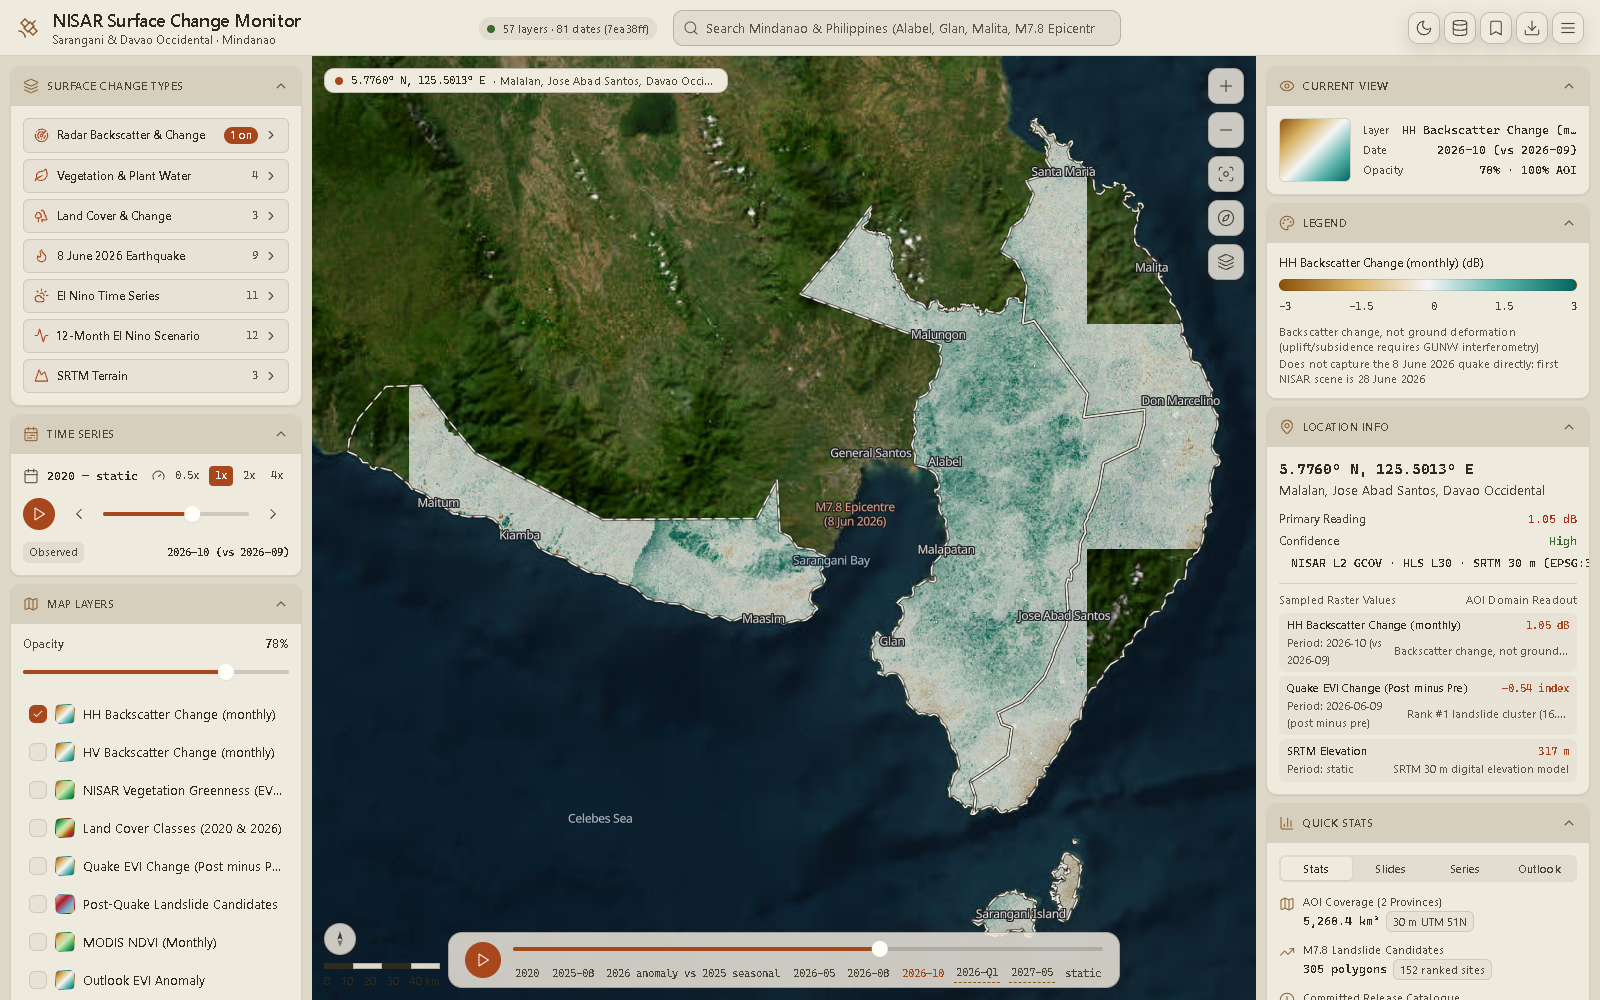
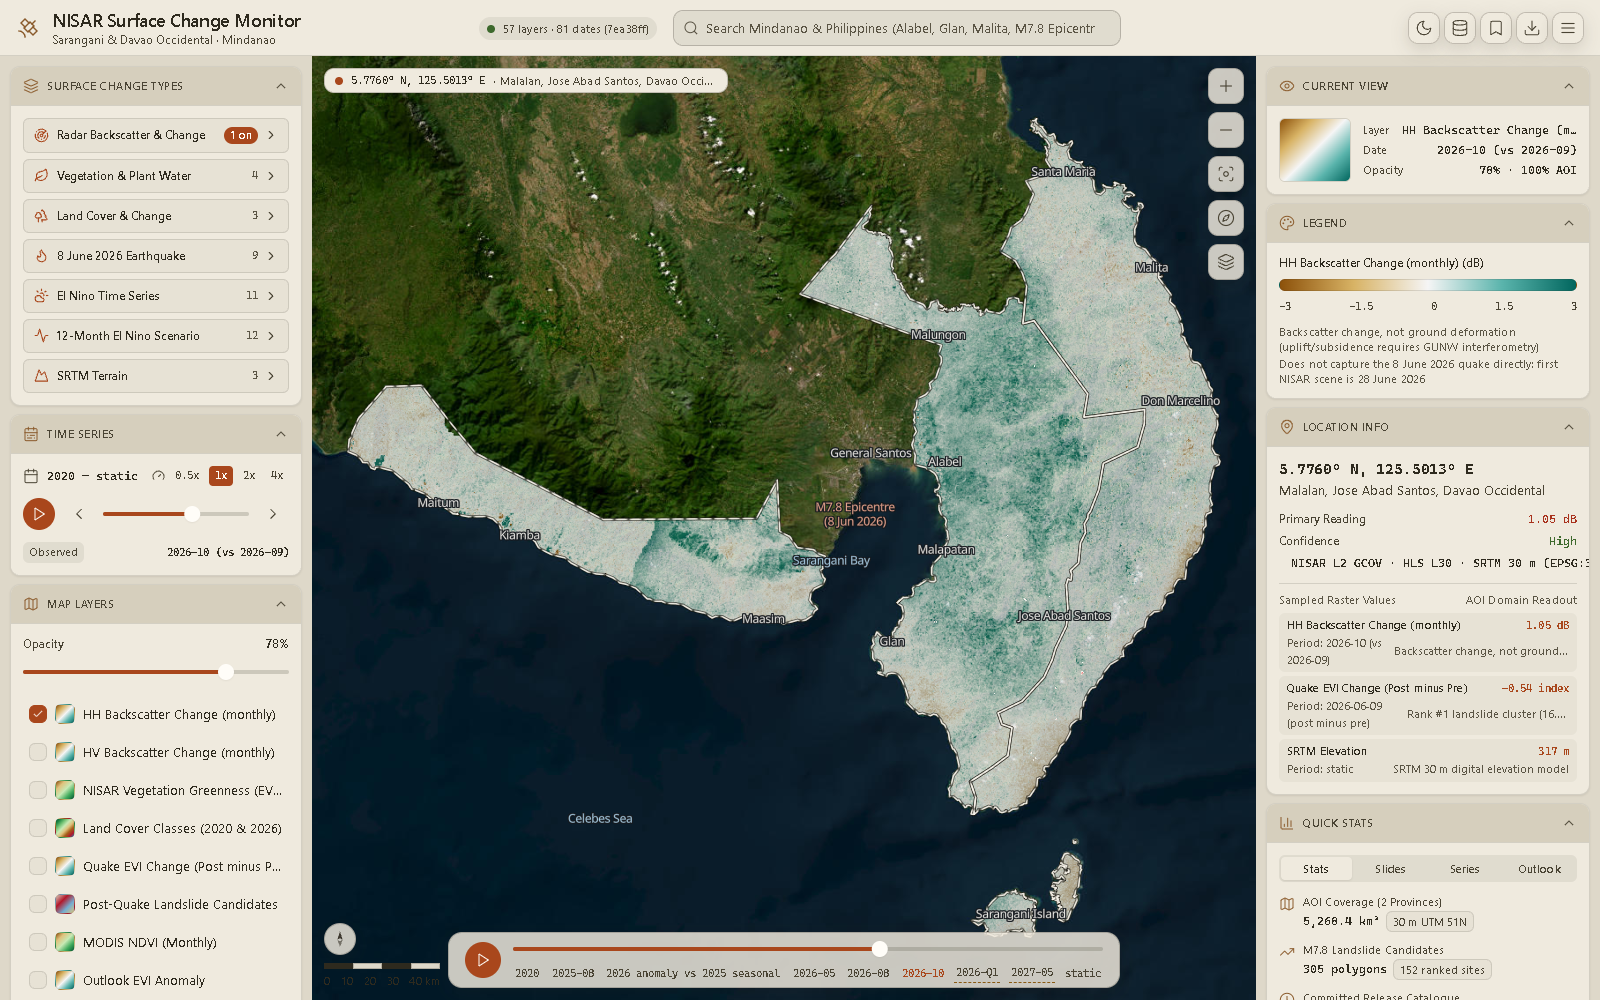
docs: add cropped UI screenshots to the user guide
Extend capture_screenshots.py with panel crops for layers, timeline, comparison, search, tools and bookmarks, wait for map tiles before capturing, and embed the new images in the guide pages.

diff --git a/scripts/capture_screenshots.py b/scripts/capture_screenshots.py
@@ -1,4 +1,4 @@
-"""Capture README screenshots from a running Vite server.
+"""Capture README and docs screenshots from a running Vite server.
 
 Requires Python Playwright and Microsoft Edge. Run `pnpm dev` first, then:
     python scripts/capture_screenshots.py
@@ -12,13 +12,54 @@ from playwright.sync_api import sync_playwright
 
 ROOT = Path(__file__).resolve().parents[1]
 OUTPUT = ROOT / "docs" / "screenshots"
+PAD = 12
+
+
+def settle(page, ms=600):
+    page.evaluate("document.fonts.ready")
+    page.wait_for_timeout(ms)
+
+
+def wait_for_tiles(page):
+    """Give the basemap and overlay tiles time to load before capturing the map."""
+    try:
+        page.wait_for_load_state("networkidle", timeout=20000)
+    except Exception:
+        print("Network did not go idle; capturing anyway", flush=True)
+    settle(page, 1500)
 
 
 def capture(page, name):
     page.mouse.move(800, 70)
-    page.evaluate("document.fonts.ready")
+    settle(page, 0)
     page.screenshot(path=str(OUTPUT / name), animations="disabled", timeout=20000)
     print(f"Saved docs/screenshots/{name}", flush=True)
+
+
+def crop(page, name, *locators, pad=PAD):
+    """Save the viewport area covering every locator, plus padding."""
+    locators[0].scroll_into_view_if_needed()
+    settle(page, 300)
+    boxes = [loc.bounding_box() for loc in locators]
+    view = page.viewport_size
+    x0 = max(min(b["x"] for b in boxes) - pad, 0)
+    y0 = max(min(b["y"] for b in boxes) - pad, 0)
+    x1 = min(max(b["x"] + b["width"] for b in boxes) + pad, view["width"])
+    y1 = min(max(b["y"] + b["height"] for b in boxes) + pad, view["height"])
+    clip = {"x": x0, "y": y0, "width": x1 - x0, "height": y1 - y0}
+    page.screenshot(
+        path=str(OUTPUT / name), clip=clip, animations="disabled", timeout=20000
+    )
+    print(f"Saved docs/screenshots/{name}", flush=True)
+
+
+def crop_panel(page, name, title):
+    """Crop a rail panel tightly so neighbouring panels stay out of frame."""
+    crop(page, name, panel(page, title), pad=4)
+
+
+def panel(page, title):
+    return page.get_by_role("region", name=title, exact=True)
 
 
 def main():
@@ -43,6 +84,8 @@ def main():
         page.goto(args.url, wait_until="domcontentloaded", timeout=30000)
         page.get_by_role("status").filter(has_text="57 layers").wait_for()
         page.locator(".maplibregl-canvas").wait_for()
+        canvas = page.locator(".maplibregl-canvas")
+        wait_for_tiles(page)
 
         # Fold long catalogues using the same controls available to users.
         for label in ["Radar Backscatter & Change", "8 June 2026 Earthquake"]:
@@ -55,12 +98,67 @@ def main():
         capture(page, "dashboard-dark.png")
 
         page.get_by_role("button", name="Switch to Sand Atlas light mode", exact=True).click()
-        page.locator(".maplibregl-canvas").click(position={"x": 430, "y": 380})
+        canvas.click(position={"x": 430, "y": 380})
         capture(page, "location-inspection.png")
 
         page.get_by_role("button", name="Data provenance", exact=True).click()
         page.get_by_role("dialog").wait_for()
         capture(page, "data-provenance.png")
+        page.keyboard.press("Escape")
+        page.get_by_role("dialog").wait_for(state="hidden")
+
+        # Datasets and layers.
+        crop_panel(page, "layers-change-types.png", "Surface Change Types")
+        crop_panel(page, "layers-map-layers.png", "Map Layers")
+        crop_panel(page, "layers-legend.png", "Legend")
+
+        # Timeline and playback.
+        crop_panel(page, "timeline-panel.png", "Time Series")
+        bar_slider = page.get_by_role("slider", name="Time series position")
+        bar = page.locator(".glass").filter(has=bar_slider)
+        bar.hover()
+        crop(page, "timeline-animation-bar.png", bar)
+
+        # Search, bookmarks and tools.
+        search = page.get_by_role("searchbox", name="Search locations")
+        search.click()
+        search.fill("Sarangani")
+        results = page.get_by_role("listbox", name="Search results")
+        results.wait_for()
+        crop(page, "search-results.png", search, results)
+        search.fill("Malalan")
+        search.press("Enter")
+        settle(page, 3000)
+
+        page.get_by_role("button", name="Bookmark", exact=True).click()
+        page.get_by_role("button", name="Measure", exact=True).click()
+        canvas.click(position={"x": 380, "y": 420})
+        canvas.click(position={"x": 620, "y": 300})
+        page.get_by_text("Distance:").wait_for()
+        crop_panel(page, "tools-panel.png", "Tools")
+        page.mouse.move(800, 70)
+        crop(page, "measure-distance.png", page.get_by_text("Distance:").locator(".."), pad=16)
+
+        bookmarks = page.get_by_role("button", name="Bookmarks", exact=True)
+        bookmarks.click()
+        menu = page.get_by_role("dialog", name="Bookmarks")
+        menu.wait_for()
+        crop(page, "bookmarks-menu.png", bookmarks, menu)
+        page.keyboard.press("Escape")
+        menu.wait_for(state="hidden")
+
+        page.get_by_role("button", name="Clear measurement").click()
+        page.get_by_role("button", name="Measure", exact=True).click()
+
+        # Comparison view, from a fresh load so the map is at the default overview.
+        page.reload(wait_until="domcontentloaded")
+        page.get_by_role("status").filter(has_text="57 layers").wait_for()
+        canvas.wait_for()
+        wait_for_tiles(page)
+        page.get_by_role("switch", name="Comparison View").click()
+        page.get_by_label("Split curtain position").wait_for()
+        crop_panel(page, "comparison-panel.png", "Comparison View")
+        capture(page, "comparison-view.png")
         browser.close()
 
 

diff --git a/apps/docs/src/content/docs/guide/layers.md b/apps/docs/src/content/docs/guide/layers.md
@@ -23,6 +23,8 @@ Layers are grouped into collapsible family sections:
 Each row shows a swatch generated from the layer's colour ramp, or from its classes for
 categorical layers, plus a toggle.
 
+![The Surface Change Types panel with the seven family groups folded](../../../../../../docs/screenshots/layers-change-types.png)
+
 - Turning a layer **on** makes it the **active layer**. The legend, Current View card and
   opacity control follow the active layer.
 - Turning a layer on also **pins** it to the Map Layers list.
@@ -38,6 +40,8 @@ The Map Layers panel lists only layers that are visible or pinned, so it never b
 - **Sarangani & Davao Occidental Boundary:** the area-of-interest outline.
 - **M7.8 Landslide Candidate Polygons (305):** vector polygons from the release.
 - **Municipalities & Reference Labels.**
+
+![The Map Layers panel with the opacity slider, pinned layers and layer order control](../../../../../../docs/screenshots/layers-map-layers.png)
 
 ### Opacity
 
@@ -56,6 +60,8 @@ The legend is built from the active layer's manifest entry:
 - **Continuous layers** show the ramp across the layer's `domain`, with its `units`.
 - **Categorical layers** print class **labels**, not numeric codes. Examples are the eight land
   cover classes, the five change-vs-2020 codes, and the landslide candidate states.
+
+![The legend for HH Backscatter Change, with its dB ramp and caveats](../../../../../../docs/screenshots/layers-legend.png)
 
 Because the pipeline builds tiles and legends from the same ramp definitions, legend colours
 match tile colours. See [Colour ramps](/Dancing_with_the_SARs/pipeline/ramps/).

diff --git a/apps/docs/src/content/docs/guide/tools.md b/apps/docs/src/content/docs/guide/tools.md
@@ -18,6 +18,8 @@ province:
 Choosing a result flies the map to it and inspects that point, as if you had clicked there. On
 narrow windows, search collapses to an icon button.
 
+![Search results for "Sarangani", listing places with their province](../../../../../../docs/screenshots/search-results.png)
+
 ## Tools panel
 
 The **Tools** panel in the left rail has four buttons:
@@ -29,6 +31,10 @@ The **Tools** panel in the left rail has four buttons:
 | **Bookmark** | Saves the last inspected point as a viewpoint at zoom 11. |
 | **Export** | Downloads `nisar-export-<period>.json` with the active layer, current period and selected point. |
 
+![The Tools panel with Measure active](../../../../../../docs/screenshots/tools-panel.png)
+
+![The measurement badge showing the distance between two clicked points](../../../../../../docs/screenshots/measure-distance.png)
+
 ## Bookmarks
 
 Open the **Bookmarks** menu in the top bar:
@@ -37,6 +43,8 @@ Open the **Bookmarks** menu in the top bar:
   Sarangani.
 - Click a saved viewpoint to fly to it.
 - Use the trash icon to remove it.
+
+![The Bookmarks menu with a saved viewpoint and the + Save Current button](../../../../../../docs/screenshots/bookmarks-menu.png)
 
 In the desktop app, bookmarks persist through the Tauri store plugin. In the browser they stay in
 memory for the session.

diff --git a/apps/docs/src/content/docs/pipeline/screenshots.md b/apps/docs/src/content/docs/pipeline/screenshots.md
@@ -30,6 +30,13 @@ the **"57 layers"** status, collapses the radar and earthquake groups, then save
 | `dashboard-dark.png` | After switching to Night Atlas |
 | `location-inspection.png` | Back to light, after a map click at (430, 380) |
 | `data-provenance.png` | With the data provenance dialog open |
+| `layers-change-types.png`, `layers-map-layers.png`, `layers-legend.png` | Cropped panels for the layers guide |
+| `timeline-panel.png`, `timeline-animation-bar.png` | Cropped Time Series panel and map animation bar |
+| `search-results.png` | The search box with results for "Sarangani" |
+| `tools-panel.png`, `measure-distance.png` | Measure active, and the distance badge after two clicks |
+| `bookmarks-menu.png` | The Bookmarks menu with the Malalan viewpoint saved |
+| `comparison-panel.png` | The Comparison View panel, enabled |
+| `comparison-view.png` | Full dashboard with the split curtain, after a fresh reload |
 
 :::caution
 If the layer count or button labels change, update the selectors in

diff --git a/apps/docs/src/content/docs/guide/comparison.md b/apps/docs/src/content/docs/guide/comparison.md
@@ -16,9 +16,13 @@ The **Comparison View** panel in the left rail sets up a before/after comparison
 4. Choose a **Baseline Period** from the drop-down. It lists every period in `manifest.dates`.
    The default is `2026-09`.
 
+![The Comparison View panel with Before / After mode, baseline period and curtain position](../../../../../../docs/screenshots/comparison-panel.png)
+
 A badge in the top-left of the map summarises the comparison, for example
 `Before: 2026-09 vs Current: 2026-10 (vs 2026-09)`. The current side shows the active layer's
 **resolved** period, so snapping is visible here too.
+
+![The map split by the comparison curtain, with the Before vs Current badge in the top-left](../../../../../../docs/screenshots/comparison-view.png)
 
 ## The split curtain
 

diff --git a/apps/docs/src/content/docs/guide/timeline.md b/apps/docs/src/content/docs/guide/timeline.md
@@ -30,6 +30,10 @@ radar change layer.
 - **Animation bar (over the map):** a compact scrubber with ticks. Dragging pauses playback and
   resumes it when you let go, if it was playing.
 
+![The Time Series panel with the period range, speed selector, scrubber and Observed tag](../../../../../../docs/screenshots/timeline-panel.png)
+
+![The animation bar over the map, with period ticks and forecast periods underlined](../../../../../../docs/screenshots/timeline-animation-bar.png)
+
 ## Period snapping
 
 When the global date is not one of a layer's periods, the layer **snaps** to the nearest
